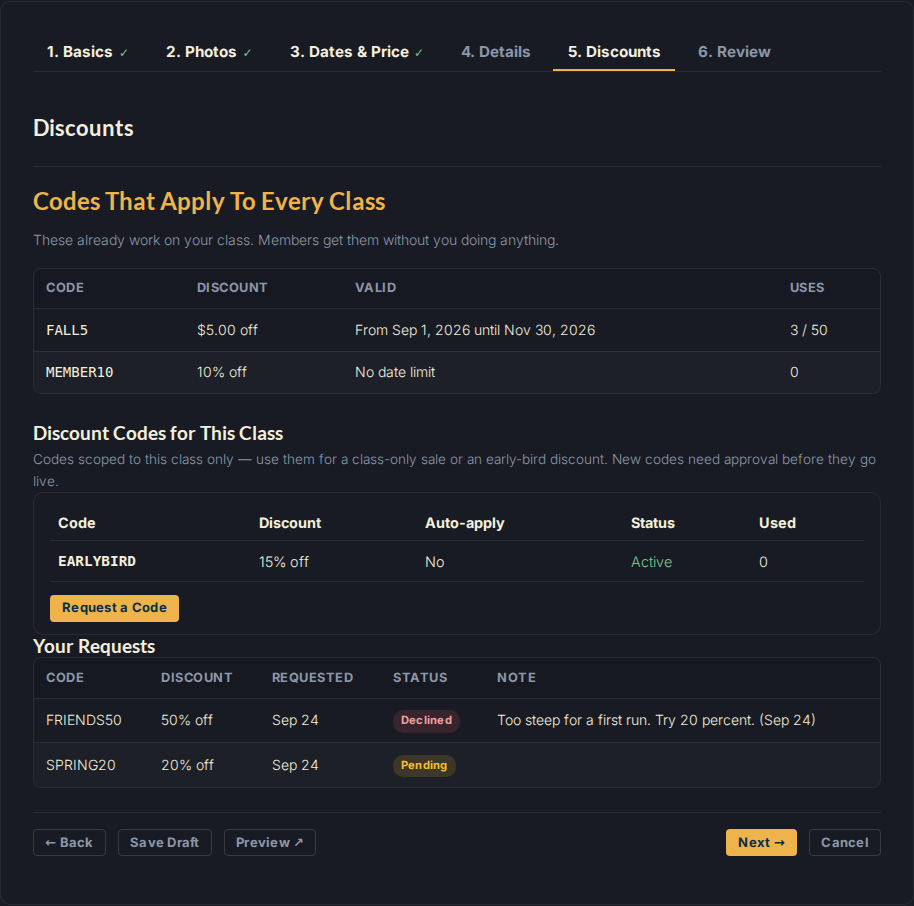
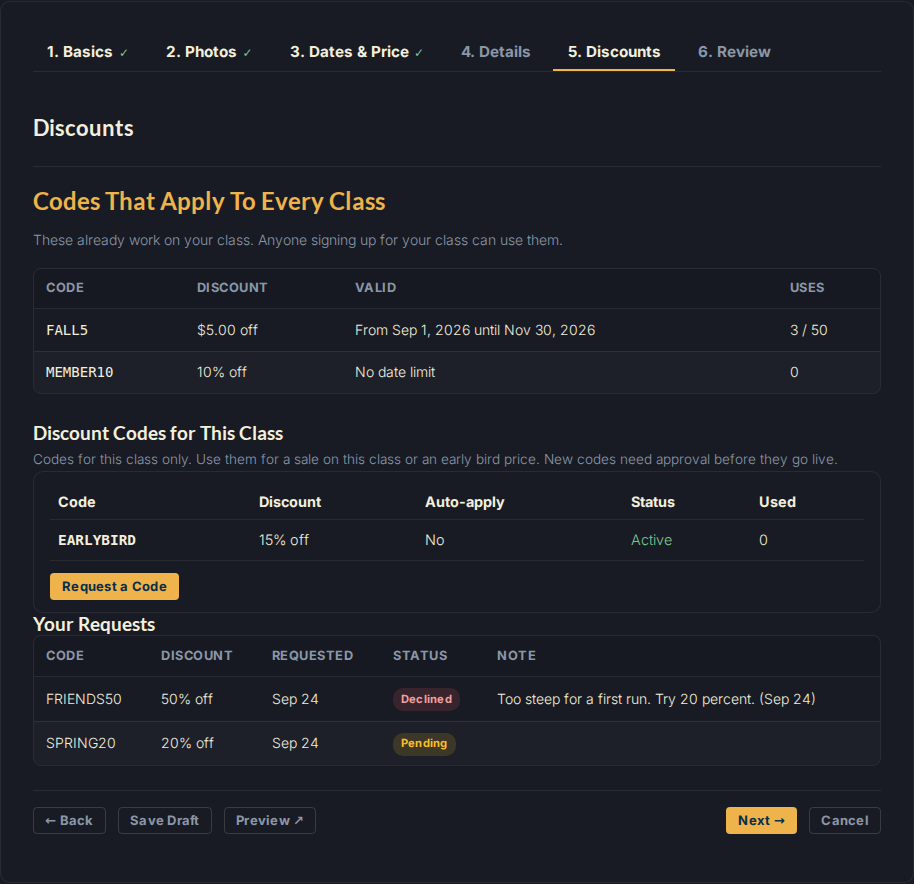
fix(classes): the Discounts step follows the viewer's discount code capability
A guild lead editing a class they do not teach reaches the instructor composer
with can_view_discount_codes False on purpose, yet the step branched on the
site flags alone and showed them the class codes, the requests with the admin's
notes and a request link that dead ended. The composer context now resolves
the viewer's capability once (the class access on edit, the master setting on
create) and the step reads it, so such a lead sees only that admins manage
codes. Site wide codes come from a queryset method. Copy on the global table,
the admin note and the help guide corrected; screenshots retaken.

Claude-Session: https://claude.ai/code/session_01LYGm99jsndiSvo5hd2EBGY

diff --git a/templates/classes/_components/class_composer.html b/templates/classes/_components/class_composer.html
@@ -18,10 +18,14 @@ Context (from _composer_context in classes/views.py, plus the form context):
                     Submit for Review)
   step_count      — STEP_COUNT from classes/composer.py: every "how many steps" and "the
                     last step" below reads it, so adding a step never edits a number here
+  composer_can_view_discount_codes — the viewer's capability on this class (the master
+                    setting on create): False for a guild lead editing a class they do not
+                    teach, who lands on the "admins manage codes" line like an instructor
+                    with the setting off
   composer_global_codes / composer_discount_requests — the Discounts step's rows for an
-                    instructor with instructor discount codes on: the site wide codes that
-                    already apply, and this class's requests. Absent for admins and with the
-                    setting off; the template branches on the flags, never on these keys
+                    instructor who may view discount codes: the site wide codes that already
+                    apply, and this class's requests. Absent for admins and for anyone who may
+                    not; the template branches on the capability, never on these keys
   composer_tabs   — [{step: ComposerStep, done: bool}], the tab bar with completion marks
   initial_phase   — the step to open on: the first broken step after a failed POST, else ?step=
   error_steps / error_steps_json / error_summary — the broken steps and their failing field labels
@@ -325,24 +329,26 @@ Do not merge them.
     Links and read only tables, never a control (#428): the per step check counts every input,
     select and textarea inside a pane, and the request form stays on its own page because a
     <form> cannot nest inside the composer's. data-composer-discounts names the variant that
-    rendered, so specs anchor on markup: admin (the per class section), off (the master
-    setting is off), request (approval mode) or direct (instructors still make their own codes).
+    rendered, so specs anchor on markup: admin (the per class section), off (this viewer may not
+    view discount codes on this class: the master setting is off, or they are a guild lead on a
+    class they do not teach), request (approval mode) or direct (instructors still make their own
+    codes).
     class_discount_codes_section.html renders nothing for an unsaved class, hence the "save your
     draft once" line beside each include of it.
     {% endcomment %}
     <div class="pl-composer__step" data-composer-step="5" x-show="phase === 5" x-cloak
-         data-composer-discounts="{% if is_admin %}admin{% elif not instructor_discount_codes_enabled %}off{% elif instructor_discount_codes_need_approval %}request{% else %}direct{% endif %}">
+         data-composer-discounts="{% if is_admin %}admin{% elif not composer_can_view_discount_codes %}off{% elif instructor_discount_codes_need_approval %}request{% else %}direct{% endif %}">
       <h2 class="pl-composer__heading">Discounts</h2>
       {% if is_admin %}
-        <p class="pl-compose-section__note">Codes for this class only. Global codes apply to every class and live on the Discount Codes tab.</p>
+        <p class="pl-compose-section__note">Codes for this class only. Global codes apply to every class and live on the Discount Codes page.</p>
         {% include "classes/_components/class_discount_codes_section.html" with offering=offering create_url='classes:admin_discount_code_create' edit_url='classes:admin_discount_code_edit' %}
         {% if not offering or not offering.pk %}<p class="pl-compose-section__note">Save your draft once and the discount codes for this class appear here.</p>{% endif %}
-      {% elif not instructor_discount_codes_enabled %}
+      {% elif not composer_can_view_discount_codes %}
         <p class="pl-compose-section__note">Discount codes are managed by admins. Ask an admin if you need one for your class.</p>
       {% else %}
         <div class="pl-compose-section">
           <h3 class="pl-compose-section__title">Codes That Apply To Every Class</h3>
-          <p class="pl-compose-section__note">These already work on your class. Members get them without you doing anything.</p>
+          <p class="pl-compose-section__note">These already work on your class. Anyone signing up for your class can use them.</p>
           {% include "classes/_components/discount_codes_read_only_table.html" with codes=composer_global_codes empty_text="No site wide codes right now." %}
         </div>
         {% if instructor_discount_codes_need_approval %}

diff --git a/classes/spec/views/composer_discounts_step_spec.py b/classes/spec/views/composer_discounts_step_spec.py
@@ -21,6 +21,7 @@ from django.urls import reverse
 
 from classes.composer import STEP_COUNT
 from classes.factories import (
+    CategoryFactory,
     ClassOfferingFactory,
     DiscountCodeFactory,
     DiscountCodeRequestFactory,
@@ -31,6 +32,7 @@ from classes.models import ClassOffering, DiscountCodeRequest
 from classes.spec.views.composer_step_validation_spec import TEMPLATE_PATH, _PaneParser
 from classes.views import _composer_discounts_context
 from core.models import SiteConfiguration
+from tests.membership.factories import GuildFactory
 
 pytestmark = pytest.mark.django_db
 
@@ -131,6 +133,43 @@ def describe_the_admin_variant():
         assert _stamp(pane) == "admin"
         # The section renders nothing for a class with no pk, so the pane says why it is empty.
         assert reverse(ADMIN_CODE_CREATE) not in pane
+        assert "<table" not in pane
+
+
+def describe_a_guild_lead_on_a_class_they_do_not_teach():
+    def it_lands_on_the_admins_manage_codes_line_with_nothing_to_read(client, instructor):
+        # _guild_access sets can_view_discount_codes False on purpose: the lead edits the class but
+        # the codes, the instructor's requests with the admin's notes, and a Request a Code link
+        # that could only dead end (the request form lists the lead's own classes) are not theirs.
+        _flags(master=True, approval=True)
+        guild = GuildFactory(name="Discounts Guild", guild_lead=instructor)
+        theirs = cast(
+            ClassOffering,
+            ClassOfferingFactory(
+                instructor=InstructorFactory(instructor_slug="someone-else"),
+                category=CategoryFactory(guild=guild),
+                status=ClassOffering.Status.DRAFT,
+            ),
+        )
+        DiscountCodeFactory(class_offering=None, code="MEMBER10")
+        DiscountCodeFactory(class_offering=theirs, code="EARLYBIRD")
+        DiscountCodeRequestFactory(
+            class_offering=theirs,
+            code="FRIENDS50",
+            status=DiscountCodeRequest.Status.DECLINED,
+            decision_note="Too steep for a first run.",
+        )
+        client.force_login(instructor.user)
+
+        resp = client.get(reverse(EDIT, kwargs={"pk": theirs.pk}))
+
+        assert resp.status_code == 200
+        html = resp.content.decode()
+        pane = _pane(html, DISCOUNTS)
+        assert _stamp(pane) == "off"
+        assert reverse(REQUEST) not in html
+        for hidden in ("MEMBER10", "EARLYBIRD", "FRIENDS50", "Too steep for a first run."):
+            assert hidden not in html, hidden
         assert "<table" not in pane
 
 
@@ -252,15 +291,12 @@ def describe_no_control_on_the_step():
 
 def describe_composer_discounts_context():
     def it_gives_an_admin_nothing_extra(instructor):
-        _flags(master=True, approval=True)
-        assert _composer_discounts_context(_draft(instructor), True) == {}
+        assert _composer_discounts_context(_draft(instructor), True, True) == {}
 
-    def it_gives_nothing_with_the_master_setting_off(instructor):
-        _flags(master=False, approval=True)
-        assert _composer_discounts_context(_draft(instructor), False) == {}
+    def it_gives_nothing_to_a_viewer_who_may_not_view_discount_codes(instructor):
+        assert _composer_discounts_context(_draft(instructor), False, False) == {}
 
     def it_lists_the_active_approved_site_wide_codes_and_the_class_requests_for_a_saved_class(instructor):
-        _flags(master=True, approval=True)
         mine = _draft(instructor)
         member10 = DiscountCodeFactory(class_offering=None, code="MEMBER10")
         all5 = DiscountCodeFactory(class_offering=None, code="ALL5")
@@ -270,15 +306,14 @@ def describe_composer_discounts_context():
         request = DiscountCodeRequestFactory(class_offering=mine, code="SPRING15")
         DiscountCodeRequestFactory(class_offering=ClassOfferingFactory(), code="ELSEWHERE")
 
-        context = _composer_discounts_context(mine, False)
+        context = _composer_discounts_context(mine, False, True)
 
         assert list(context["composer_global_codes"]) == [all5, member10]
         assert list(context["composer_discount_requests"]) == [request]
 
     def it_lists_no_requests_for_an_unsaved_class():
-        _flags(master=True, approval=True)
         DiscountCodeRequestFactory(code="SPRING15")
-        context = _composer_discounts_context(None, False)
+        context = _composer_discounts_context(None, False, True)
         assert list(context["composer_discount_requests"]) == []
         assert context["composer_discount_requests"].model is DiscountCodeRequest
         assert list(context["composer_global_codes"]) == []

diff --git a/classes/views.py b/classes/views.py
@@ -2014,24 +2014,21 @@ def _leave_class_url(request: HttpRequest, offering: ClassOffering) -> str:
     return reverse("classes:teach_dashboard")
 
 
-def _composer_discounts_context(saved: ClassOffering | None, is_admin: bool) -> dict[str, Any]:
+def _composer_discounts_context(
+    saved: ClassOffering | None, is_admin: bool, can_view_discount_codes: bool
+) -> dict[str, Any]:
     """The Discounts step's rows for an instructor: the site wide codes that already apply, and this class's requests.
 
     Admins get nothing extra: their step is the per class section, which reads
-    ``offering.discount_codes`` itself. The two flags the template branches on come from the
-    ``feature_flags`` context processor; this only fetches rows when someone can see them.
+    ``offering.discount_codes`` itself. ``can_view_discount_codes`` is the viewer's capability
+    on this class (:func:`_composer_context` resolves it), so a guild lead on a class they do
+    not teach, who has it False on purpose, is handed nothing to read.
     """
-    if is_admin or not SiteConfiguration.load().instructor_discount_codes_enabled:
+    if is_admin or not can_view_discount_codes:
         return {}
-    requests = (
-        saved.discount_code_requests.select_related("discount_code")
-        if saved is not None
-        else DiscountCodeRequest.objects.none()
-    )
+    requests = saved.discount_code_requests.all() if saved is not None else DiscountCodeRequest.objects.none()
     return {
-        "composer_global_codes": DiscountCode.objects.filter(
-            class_offering__isnull=True, is_active=True, is_approved=True
-        ).order_by("code"),
+        "composer_global_codes": DiscountCode.objects.site_wide_live(),
         "composer_discount_requests": requests,
     }
 
@@ -2072,6 +2069,18 @@ def _composer_context(
 
     is_published = saved is not None and saved.status == ClassOffering.Status.PUBLISHED
     marks = step_marks(readiness) if readiness is not None else {}
+    # Who may read discount codes on this class. On edit it is the capability
+    # ``class_screen_required`` resolved: an instructor's follows the master setting, and a
+    # guild lead on a class they do not teach has it False on purpose (``_guild_access``), so
+    # the Discounts step must not hand them the codes, the requests or a Request a Code link
+    # that dead ends. On create there is no class yet and the only person here is an
+    # instructor starting their own, so the master setting is the whole answer.
+    access: ClassAccess | None = getattr(request, "class_access", None)
+    can_view_discount_codes = (
+        access.can_view_discount_codes
+        if access is not None
+        else SiteConfiguration.load().instructor_discount_codes_enabled
+    )
     if saved is not None:
         # The card preview frames render the REAL catalog card three times (two widths on
         # the Photos step, the phone on the Review step) and each read offering.sessions.all; one prefetch
@@ -2086,6 +2095,7 @@ def _composer_context(
         "composer_tabs": [{"step": step, "done": marks.get(step.number, False)} for step in COMPOSER_STEPS],
         # The map's own count: every "how many steps" and "the last step" in the template reads it.
         "step_count": STEP_COUNT,
+        "composer_can_view_discount_codes": can_view_discount_codes,
         "initial_phase": min(error_step_numbers) if error_step_numbers else _composer_step(request),
         "error_steps": error_step_numbers,
         "error_steps_json": json.dumps(error_step_numbers),
@@ -2114,7 +2124,7 @@ def _composer_context(
         # request may print them: published, or an admin looking at a draft.
         "can_print_marketing": saved is not None and can_print_class_marketing(request, saved),
         **_missing_context(missing, verb),
-        **_composer_discounts_context(saved, is_admin),
+        **_composer_discounts_context(saved, is_admin, can_view_discount_codes),
     }
 
 

diff --git a/classes/spec/models/discount_code_spec.py b/classes/spec/models/discount_code_spec.py
@@ -120,6 +120,29 @@ def describe_DiscountCode():
             DiscountCodeFactory(class_offering=offering, auto_apply=False)
             assert DiscountCode.objects.best_auto_apply_for(offering, 10_000) is None
 
+    def describe_site_wide_live():
+        def it_lists_the_active_approved_codes_with_no_class_scope_by_code(db):
+            member10 = DiscountCodeFactory(class_offering=None, code="MEMBER10")
+            all5 = DiscountCodeFactory(class_offering=None, code="ALL5")
+            assert list(DiscountCode.objects.site_wide_live()) == [all5, member10]
+
+        def it_leaves_out_codes_scoped_to_a_class(db):
+            DiscountCodeFactory(class_offering=ClassOfferingFactory())
+            assert not DiscountCode.objects.site_wide_live().exists()
+
+        def it_leaves_out_inactive_codes(db):
+            DiscountCodeFactory(class_offering=None, is_active=False)
+            assert not DiscountCode.objects.site_wide_live().exists()
+
+        def it_leaves_out_codes_still_waiting_for_approval(db):
+            DiscountCodeFactory(class_offering=None, is_approved=False)
+            assert not DiscountCode.objects.site_wide_live().exists()
+
+        def it_keeps_a_code_outside_its_date_window(db):
+            # The window is checked at redemption; the listing shows the dates instead.
+            expired = DiscountCodeFactory(class_offering=None, valid_until=date.today() - timedelta(days=1))
+            assert list(DiscountCode.objects.site_wide_live()) == [expired]
+
     def describe_approve():
         def it_marks_the_code_approved(db):
             code = DiscountCodeFactory(is_approved=False)

diff --git a/membership/help_content.py b/membership/help_content.py
@@ -879,7 +879,7 @@ Three ways in:
 2. The form is six steps. Step 1 is the basics: title, guild type, and description.
 3. Step 2 is photos. Add a hero image and at least one gallery photo; a class needs both before it can be submitted. Pick the important part of the photo for the class page banner and again for the catalog card.
 4. Step 3 is dates, seats, and price. A class can be one session or a series; add every date. You can also pick flexible scheduling if the dates are arranged later.
-5. Step 4 holds the optional details students read to prepare. Step 5 is discounts: the site wide codes that already apply to your class, the codes on this class, and a **Request a Code** button when the studio has instructor discount codes turned on (an admin approves the code before it exists). Step 6 is the review: a checklist, a preview of your page and card, and the **Submit for Review** button.
+5. Step 4 holds the optional details students read to prepare. Step 5 is discounts. If the studio lets instructors have discount codes, you see the site wide codes that already apply, the codes on this class, and a **Request a Code** button (an admin approves the code before it exists). Otherwise the step says admins manage codes. Step 6 is the review: a checklist, a preview of your page and card, and the **Submit for Review** button.
 6. Click **Save Draft** on any step to keep working.
 
 ![The new class form: describe it, price it, and add your session dates.](/static/help/become-an-instructor/02-new-class-form.png)

diff --git a/classes/models.py b/classes/models.py
@@ -3108,6 +3108,15 @@ class ClassSession(models.Model):
 
 
 class DiscountCodeQuerySet(models.QuerySet["DiscountCode"]):
+    def site_wide_live(self) -> "DiscountCodeQuerySet":
+        """The codes anyone can type at checkout on any class: no class scope, active and approved, by code.
+
+        The date window and the use cap stay with :meth:`DiscountCode.is_currently_valid` at
+        redemption; a code outside its window is still worth listing, dates and all, which is
+        what the composer's Discounts step does (#428).
+        """
+        return self.filter(class_offering__isnull=True, is_active=True, is_approved=True).order_by("code")
+
     def best_auto_apply_for(self, offering: "ClassOffering", base_price_cents: int) -> "DiscountCode | None":
         """The class-scoped auto-apply code that drops ``base_price_cents`` furthest.
 
